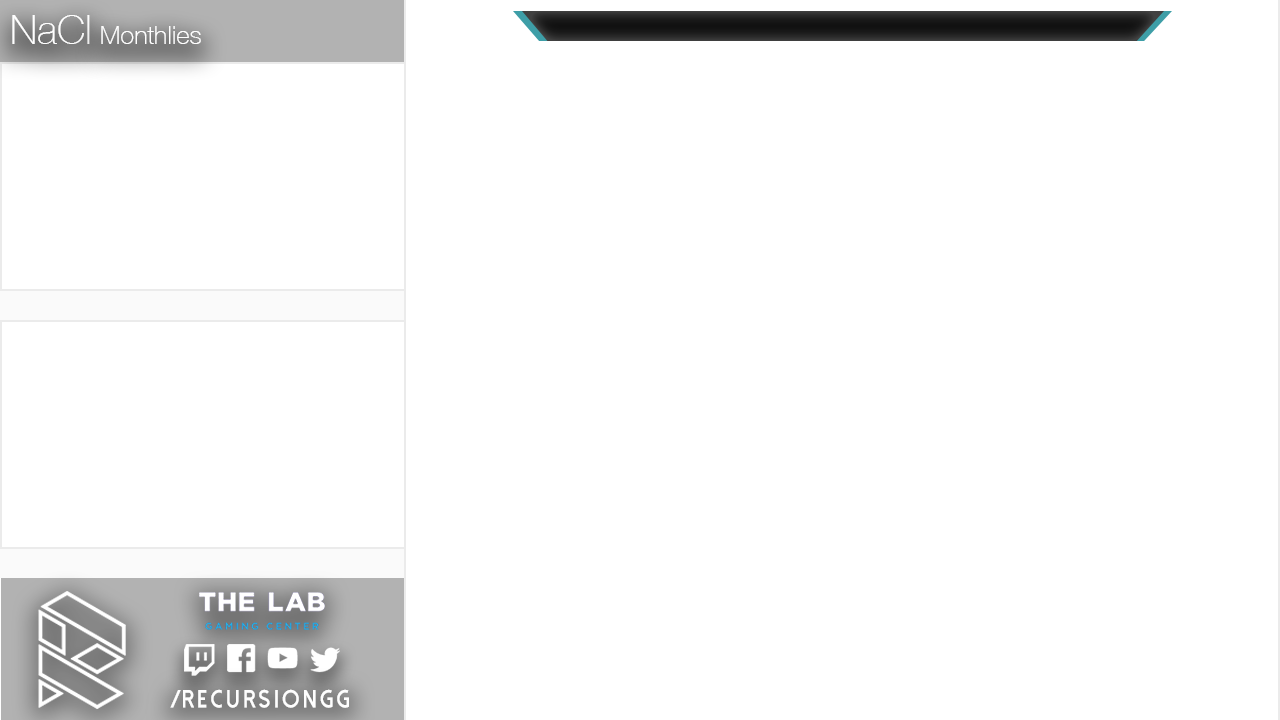
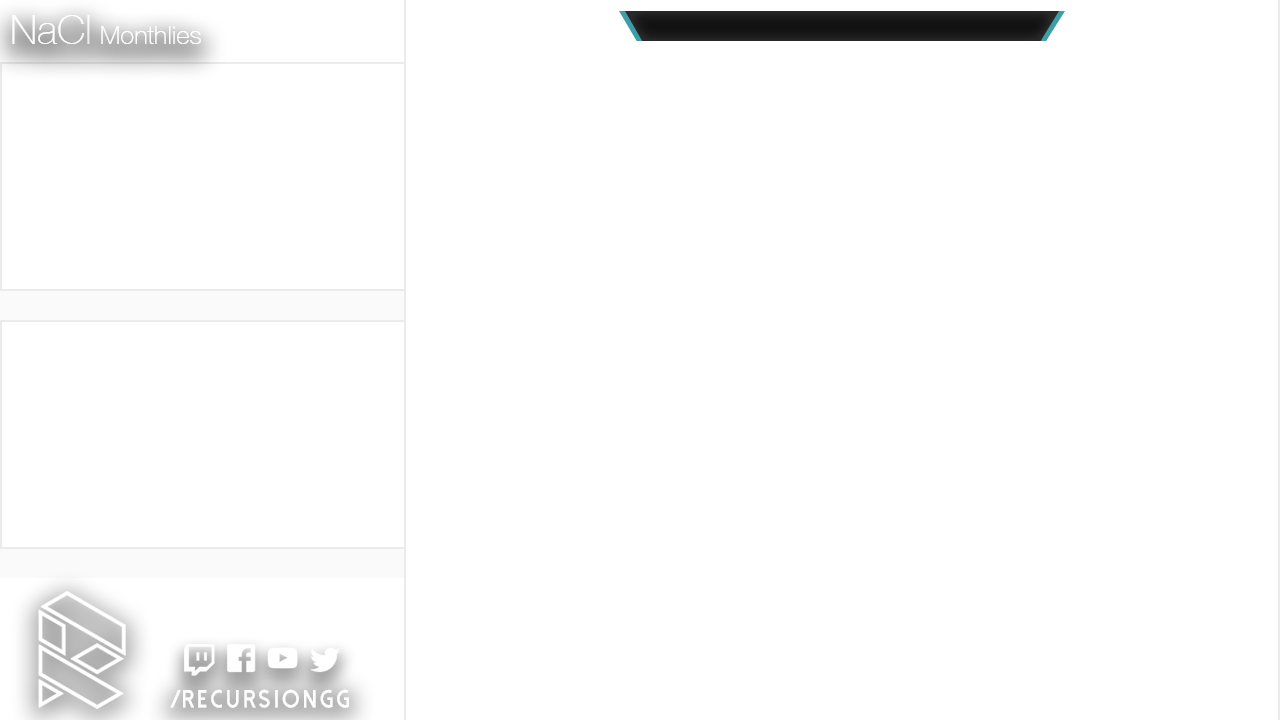
WTT and NaCl materials

diff --git a/resources/styles/MeleeDoubles.css b/resources/styles/MeleeDoubles.css
@@ -15,28 +15,24 @@ div.team1{
     position: fixed;
     margin-top: 432px;
     margin-left: 10px;
-    color: #3e354d;
 }
 
 div.team1Score{
     position: fixed;
     margin-top: 432px;
     margin-left: 575px;
-    color: #3e354d;
 }
 
 div.team2{
     position: fixed;
     margin-top: 822px;
     margin-left: 10px;
-    color: #3e354d;
 }
 
 div.team2Score{
     position: fixed;
     margin-top: 822px;
     margin-left: 575px;
-    color: #3e354d;
 }
 
 div.roundCol{

diff --git a/resources/styles/MeleeCommentary.css b/resources/styles/MeleeCommentary.css
@@ -3,7 +3,7 @@ body{
     font-family: "Khand Medium";
     text-transform: uppercase;
     letter-spacing: 3px;
-	background-image: url('C:/Users/RCScookiE/Documents/RCSOverlay/resources/images/Overlays/PlayersBall/PlayersBallLowerThird.png');
+	background-image: url('C:/Users/RCScookiE/Documents/RCSOverlay/resources/images/Overlays/NaCl/NaClAugust/NaClLowerThird2.png');
 }
 
 div.left{

diff --git a/resources/styles/MeleeGame.css b/resources/styles/MeleeGame.css
@@ -28,6 +28,7 @@ div.roundboard{
     float:none;
     margin-top:16px;
     text-align:center;
+    kerning: 10pt;
 }
 
 /** NESTED COLUMN AREAS **/
